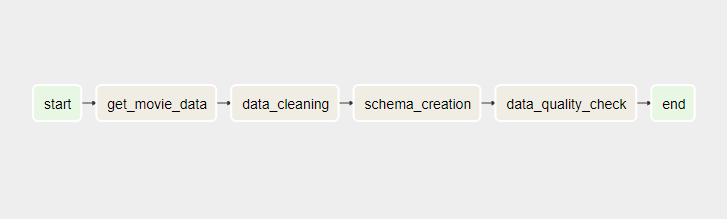
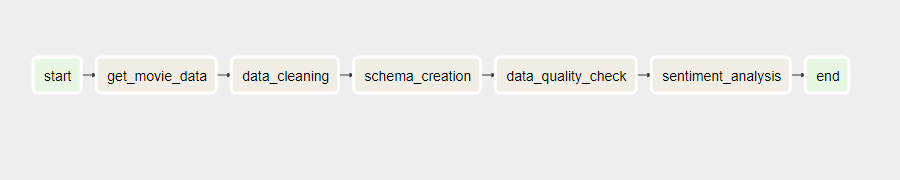
dag changes

Changed region(s): [[0.0303, 0.3611, 0.9684, 0.5278]]

diff --git a/dags/movie_data_dag.py b/dags/movie_data_dag.py
@@ -60,6 +60,8 @@ schema_creation_script_path = config['dags']['schema_creation_script_path']
 
 data_quality_check_script_path = config['dags']['data_quality_check_script_path']
 
+sentiment_analysis_script_path = config['dags']['data_quality_check_script_path']
+
 main_path = config['paths']['main_path']
 
 execute_get_movie_data_script_cmd = f"{SSH_CONNECT}{EMR_IP_ADDRESS} spark-submit {main_path}'{{'job_name': '{get_movie_data_script_path}', 'path': '{CONFIG_PATH}'}}'"
@@ -70,6 +72,7 @@ execute_schema_creation_script_cmd = f"{SSH_CONNECT}{EMR_IP_ADDRESS} spark-submi
 
 execute_data_quality_check_script_cmd = f"{SSH_CONNECT}{EMR_IP_ADDRESS} spark-submit {main_path} '{{'job_name': '{data_quality_check_script_path}', 'path': '{CONFIG_PATH}'}}'"
 
+execute_sentiment_analysis_script_cmd = f"{SSH_CONNECT}{EMR_IP_ADDRESS} spark-submit {main_path} '{{'job_name': '{sentiment_analysis_script_path}', 'path': '{CONFIG_PATH}'}}'"
     
 default_args = {
 
@@ -97,6 +100,8 @@ schema_creation_task = BashOperator(task_id="schema_creation", bash_command = ex
 
 data_quality_check_task = BashOperator(task_id="data_quality_check", bash_command = execute_data_quality_check_script_cmd, dag = dag_obj)
 
+sentiment_analysis_task = BashOperator(task_id="sentiment_analysis", bash_command = execute_sentiment_analysis_script_cmd, dag = dag_obj)
+
 end_task = DummyOperator(task_id="end", dag=dag_obj)
 
-start_task >> get_movie_data_task >> data_cleaning_task >> schema_creation_task >> data_quality_check_task >> end_task
+start_task >> get_movie_data_task >> data_cleaning_task >> schema_creation_task >> data_quality_check_task >> sentiment_analysis_task >> end_task

diff --git a/app/code/get_movie_data.py b/app/code/get_movie_data.py
@@ -1,3 +1,4 @@
+from pendulum import today
 import requests
 from bs4 import BeautifulSoup 
 import re
@@ -5,14 +6,19 @@ import json
 import os
 from imdb import IMDb, IMDbDataAccessError
 import boto3 
+from datetime import date
 
 def process(spark, config):
+    today_date = date.today() 
+    current_year = today_date.year
+    
     bucket_name = config['s3_bucket_details']['s3_bucket_data_path']
     data_folder_name = config['data']['data_folder_name']
 
     imdb_obj = IMDb()
 
     # loop through years
+    # for year in range(current_year, current_year+1)
     for year in range(2001,2002):
         names = get_names_from_wiki(year)
         print(len(names))
